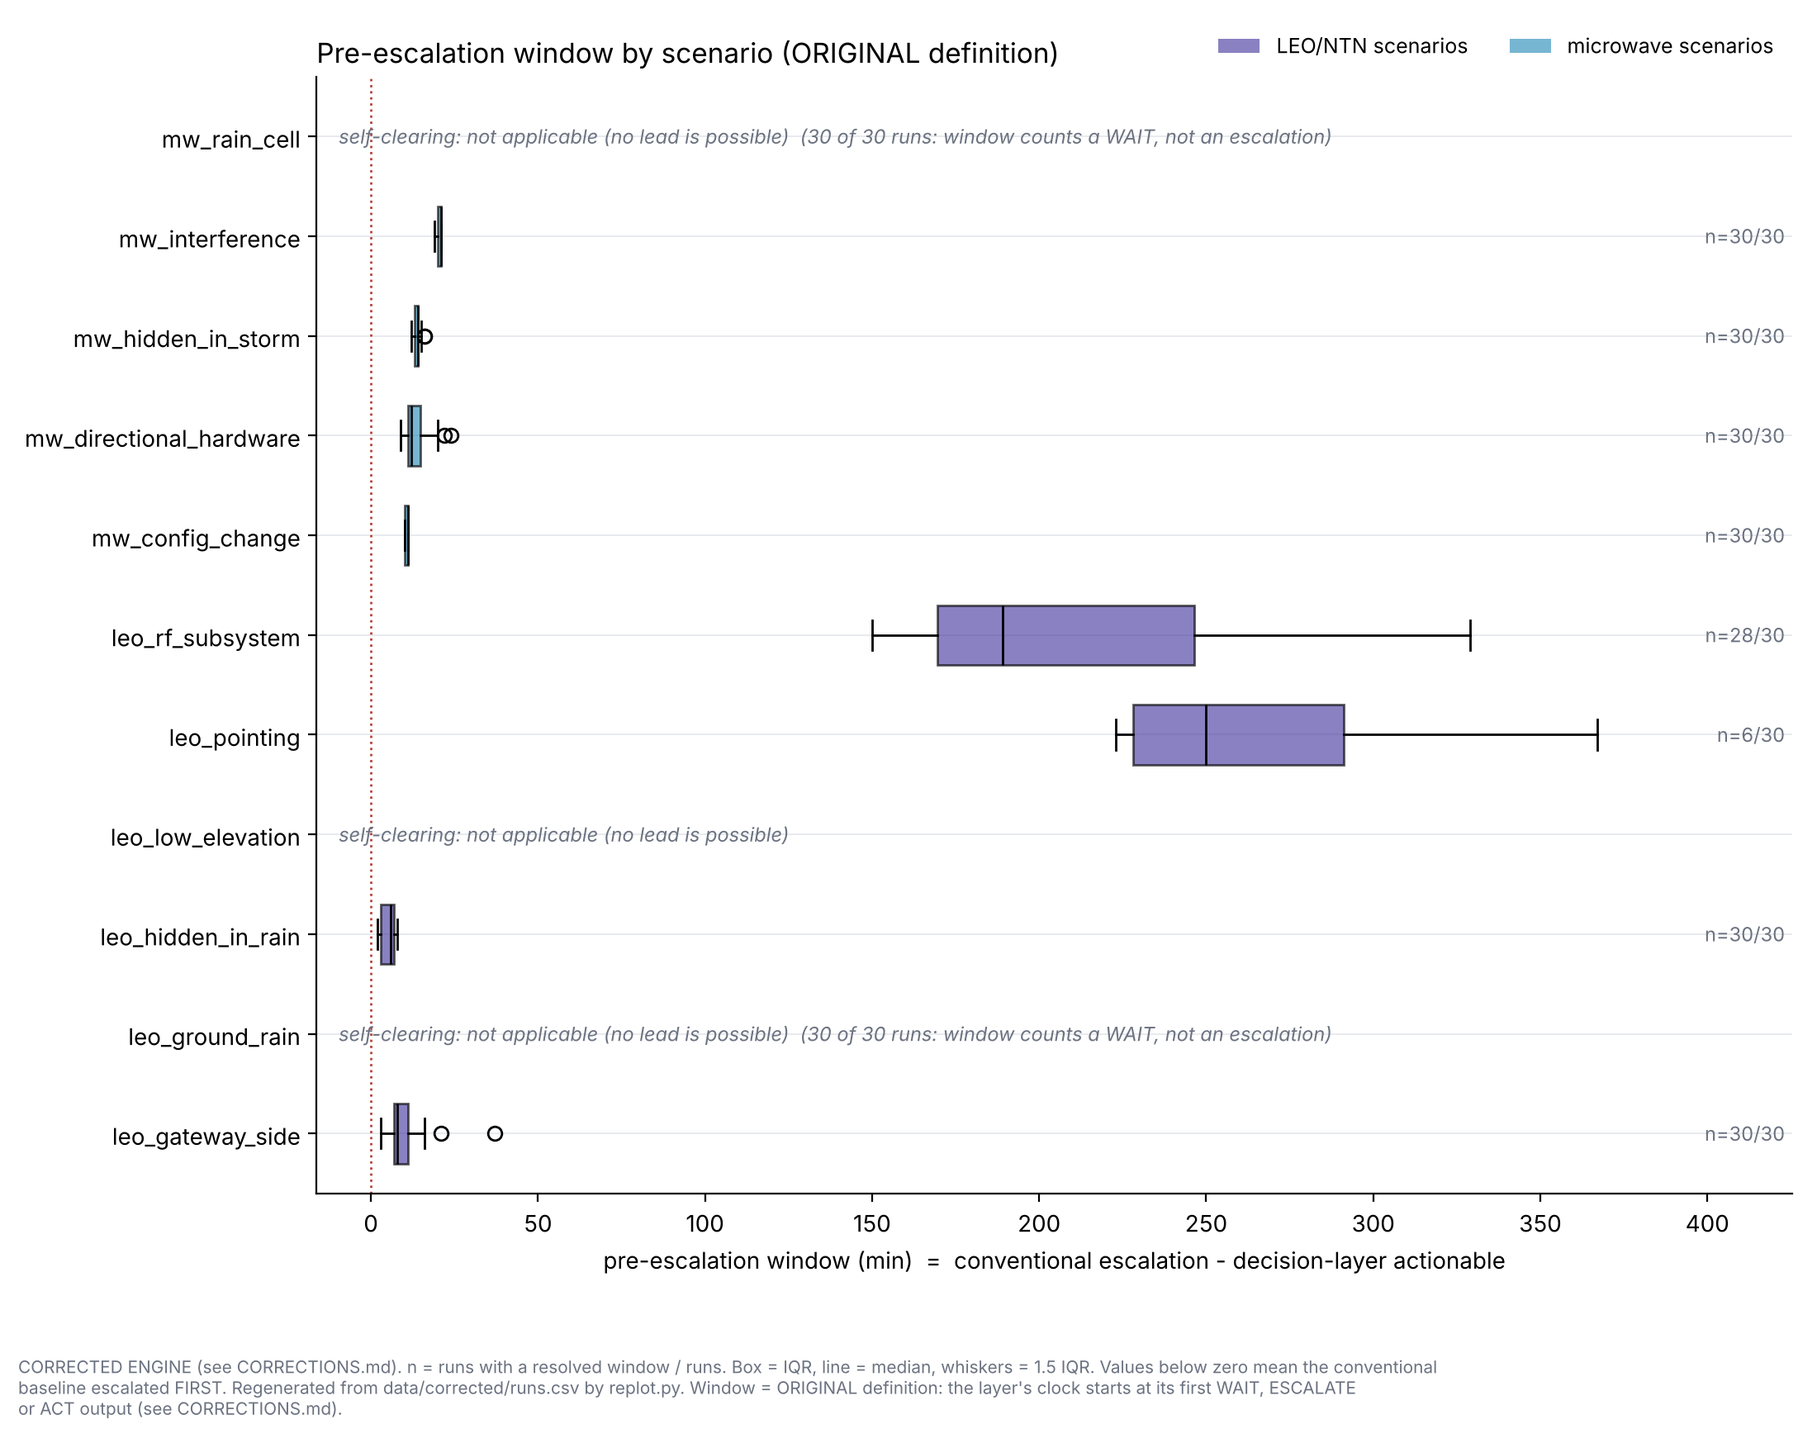
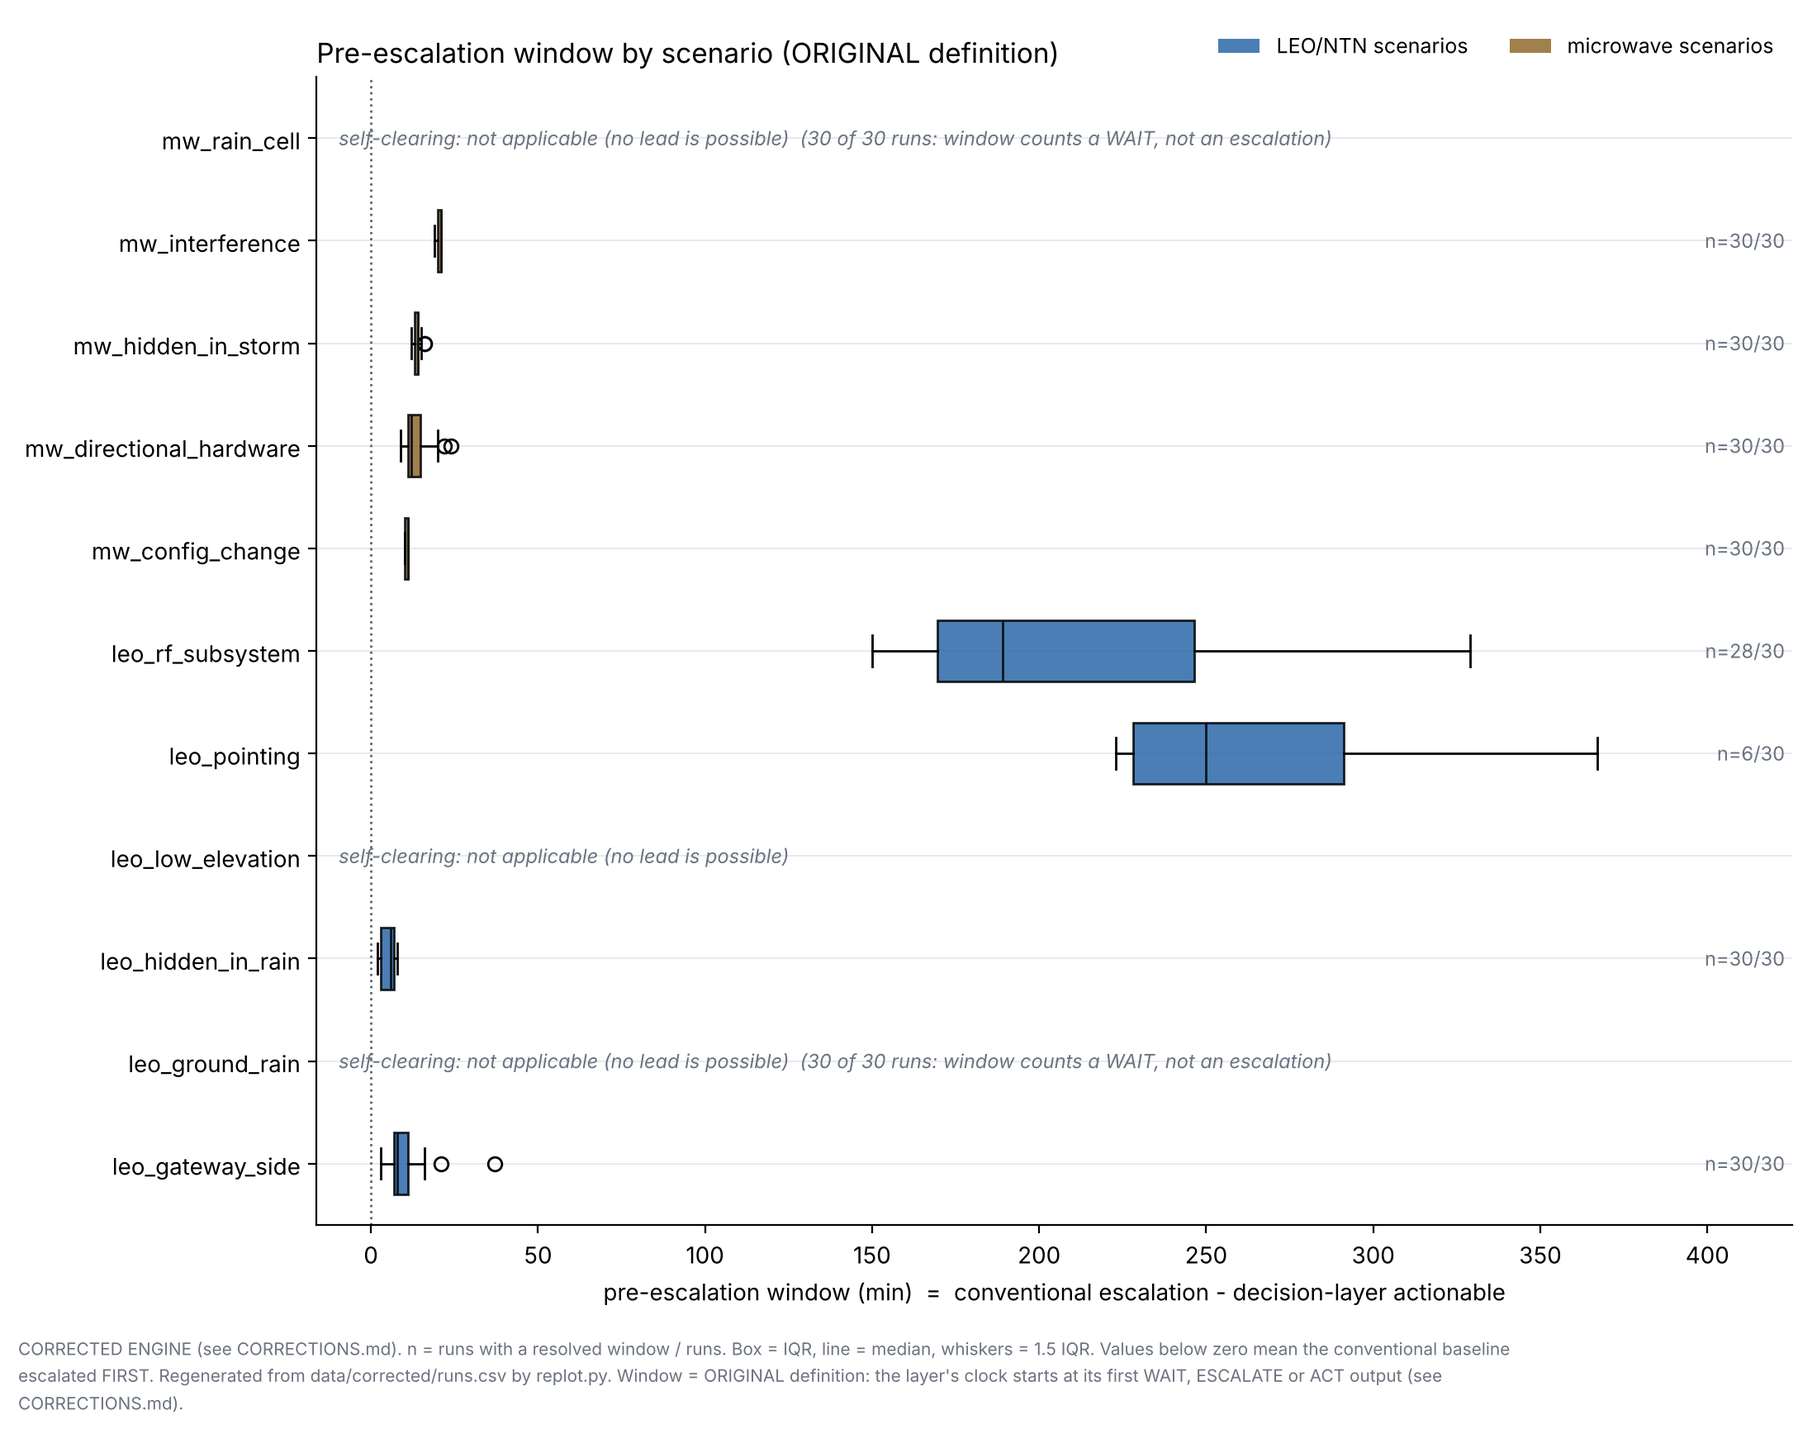
Light corrected figures follow the blue/gold role system; shared footer layout, legend and timeline fixes
Claude-Session: https://claude.ai/code/session_01Rx9huHk5MnagFnVThWGEcc

diff --git a/replot.py b/replot.py
@@ -47,6 +47,7 @@ PALETTE = {
     "timeline_height": 3.6,
     "scenario_lines": "default",      # "domain": one hue per panel, scenarios told apart by line style and marker
     # -- timeline events
+    "event_onset": "#DDE1E7",          # fault onset (the pale grid tone in the original light theme)
     "event_detect": "#2E8FBB",
     "event_actionable_leo": "#4A3DA0",
     "event_actionable_mw": "#4A3DA0",
@@ -57,6 +58,19 @@ PALETTE = {
     # -- residual-diagnosis trace
     "trace": "#2E8FBB",
     "marginal": "#B2453D",
+}
+
+# Light-theme roles for the corrected-engine figures: the same blue / gold semantics as the dark theme, in tones with
+# enough contrast on white (blue 5.8:1, AID Edge deep gold #8F6A2D 4.9:1, grey 5.8:1). Figures from the published data keep PALETTE above.
+LIGHT_BRAND = {
+    "series_leo": "#2A68A8", "series_mw": "#8F6A2D",
+    "arm_conventional": "#5B6772", "arm_decision_leo": "#2A68A8", "arm_decision_mw": "#8F6A2D",
+    "pooled": "#5B6772", "special": "#0B1620", "special_hatch": "///",
+    "reference": "#5B6772", "median": "#0B1620", "box_alpha": 0.85, "legend_fs": 9, "legend_fs_small": 8,
+    "scenario_lines": "domain", "timeline_levels": [0.45, -0.45, 1.25, -1.25], "timeline_height": 5.0,
+    "event_onset": "#5B6772", "event_detect": "#0B1620", "event_actionable_leo": "#2A68A8", "event_actionable_mw": "#8F6A2D",
+    "event_escalate_leo": "#2A68A8", "event_escalate_mw": "#8F6A2D", "event_ticket": "#5B6772", "event_impact": "#0B1620",
+    "trace": "#2A68A8", "marginal": "#0B1620",
 }
 
 
@@ -87,20 +101,54 @@ def _boxplot(ax, data, tick_labels, horizontal=False, **kwargs):
 # (detected by the presence of the like-for-like window column).
 DATA_LABEL = "data"
 CORRECTED = False
+THEME = "light"          # replot_dark.py sets "dark" before calling main()
 ORIGINAL_WINDOW_NOTE = (" Window = ORIGINAL definition: the layer's clock starts at its first WAIT, ESCALATE or ACT output "
                         "(see CORRECTIONS.md).")
 
 
-def _footer(fig, text: str, original_window: bool = False, wrap: bool = False) -> int:
+def _footer(fig, text: str, original_window: bool = False) -> None:
     if DATA_LABEL != "data":
         text = text.replace("data/", DATA_LABEL + "/")
     if CORRECTED:
         text = "CORRECTED ENGINE (see CORRECTIONS.md). " + text + (ORIGINAL_WINDOW_NOTE if original_window else "")
-    if CORRECTED and wrap:                            # the longer corrected-set footer must not run off the canvas
-        import textwrap
-        text = textwrap.fill(text, width=int(fig.get_figwidth() * 15))
     fig.text(0.01, 0.01, text, fontsize=7.5, color=PALETTE["footer"], ha="left")
-    return text.count("\n") + 1
+
+
+def _wrap_footer(fig) -> float:
+    """Wrap the footer to the canvas width; return its height as a figure fraction (0 if there is none)."""
+    import math
+    import textwrap
+    foot = next((t for t in fig.texts if tuple(round(v, 3) for v in t.get_position()) == (0.01, 0.01)), None)
+    if foot is None:
+        return 0.0
+    renderer = fig.canvas.get_renderer()
+    foot.set_va("bottom")
+    foot.set_position((0.01, 0.008))
+    text = " ".join(foot.get_text().split())
+    foot.set_text(text)
+    avail = fig.get_figwidth() * fig.dpi * 0.965
+    width = foot.get_window_extent(renderer).width
+    if width > avail:
+        foot.set_text(textwrap.fill(text, width=int(len(text) / math.ceil(width / avail))))
+        foot.set_linespacing(1.3)
+    return foot.get_window_extent(renderer).height / (fig.get_figheight() * fig.dpi)
+
+
+def _finish(fig, out: Path, rect=None) -> Path:
+    """Lay out, save and close. In the light corrected set the footer is wrapped to the canvas and the plot area keeps
+    clear of it; everywhere else (published-data figures, the dark theme, which does its own footer layout) the layout
+    is exactly the original tight_layout."""
+    if CORRECTED and THEME == "light":
+        top = rect[3] if rect else 1.0
+        bottom = max(_wrap_footer(fig) + 0.012, rect[1] if rect else 0.0)
+        fig.tight_layout(rect=[0, bottom, 1, top])
+    elif rect is not None:
+        fig.tight_layout(rect=rect)
+    else:
+        fig.tight_layout()
+    fig.savefig(out, dpi=200)
+    plt.close(fig)
+    return out
 
 
 def _self_clearing_scenarios(df: pd.DataFrame) -> set:
@@ -171,17 +219,11 @@ def fig_pre_escalation_window(df: pd.DataFrame, out: Path, col: str = "lead_gain
     else:
         sz = df[df[col].notna()].groupby("scenario").size()
         ax.set_title(f"{head} (n={sz.min()}-{sz.max()} seeds each)", fontsize=12, loc="left")
-    n_lines = _footer(fig, ("n = runs with a resolved window / runs. " if CORRECTED else "")
-                           + "Box = IQR, line = median, whiskers = 1.5 IQR. Values below zero mean the "
-                           "conventional baseline escalated FIRST. Regenerated from data/runs.csv by replot.py.",
-                      original_window=CORRECTED and not like_for_like, wrap=True)
-    if CORRECTED:
-        fig.tight_layout(rect=[0, 0.025 + 0.022 * n_lines, 1, 1])
-    else:
-        fig.tight_layout()
-    fig.savefig(out, dpi=200)
-    plt.close(fig)
-    return out
+    _footer(fig, ("n = runs with a resolved window / runs. " if CORRECTED else "")
+                 + "Box = IQR, line = median, whiskers = 1.5 IQR. Values below zero mean the "
+                 "conventional baseline escalated FIRST. Regenerated from data/runs.csv by replot.py.",
+            original_window=CORRECTED and not like_for_like)
+    return _finish(fig, out)
 
 
 def fig_cross_domain(df: pd.DataFrame, out: Path) -> Optional[Path]:
@@ -216,10 +258,7 @@ def fig_cross_domain(df: pd.DataFrame, out: Path) -> Optional[Path]:
     fig.suptitle("The physics change. The decision problem persists.", fontsize=13, x=0.01, ha="left")
     _footer(fig, "Cross-domain comparison of the DECISION problem, not of the technologies. "
                  "Regenerated from data/runs.csv by replot.py.")
-    fig.tight_layout(rect=[0, 0.03, 1, 0.94])
-    fig.savefig(out, dpi=200)
-    plt.close(fig)
-    return out
+    return _finish(fig, out, rect=[0, 0.03, 1, 0.94])
 
 
 def fig_escalation_quality(df: pd.DataFrame, out: Path) -> Optional[Path]:
@@ -254,7 +293,11 @@ def fig_escalation_quality(df: pd.DataFrame, out: Path) -> Optional[Path]:
                     Patch(facecolor=PALETTE["arm_decision_mw"], label="decision layer, microwave scenarios")]
     else:
         handles += [Patch(facecolor=PALETTE["arm_decision_leo"], label="Velorona decision layer")]
-    axes[0].legend(handles=handles, frameon=False, fontsize=9)
+    if CORRECTED:                         # above the plot area, clear of the bars (both themes)
+        axes[0].legend(handles=handles, loc="lower right", bbox_to_anchor=(1.0, 1.02), ncol=len(handles),
+                       frameon=False, fontsize=PALETTE["legend_fs"])
+    else:
+        axes[0].legend(handles=handles, frameon=False, fontsize=9)
     axes[1].set_xticks(x)
     axes[1].set_xticklabels(scen, rotation=30, ha="right", fontsize=8)
     fig.suptitle("Escalation quality: is the escalation about a real, persistent fault?",
@@ -262,10 +305,7 @@ def fig_escalation_quality(df: pd.DataFrame, out: Path) -> Optional[Path]:
     _footer(fig, ("Medians across seeds. n/a = metric undefined (no persistent fault, or no escalation by the arm); not zero. "
                   if CORRECTED else "Medians across seeds. NaN (no escalation by either arm) plotted as zero. ")
                 + "Regenerated from data/runs.csv by replot.py.")
-    fig.tight_layout(rect=[0, 0.02, 1, 0.95])
-    fig.savefig(out, dpi=200)
-    plt.close(fig)
-    return out
+    return _finish(fig, out, rect=[0, 0.02, 1, 0.95])
 
 
 def fig_economic_exposure(df: pd.DataFrame, out: Path) -> Optional[Path]:
@@ -288,10 +328,7 @@ def fig_economic_exposure(df: pd.DataFrame, out: Path) -> Optional[Path]:
     ax.set_title("Modelled operational exposure - ILLUSTRATIVE", fontsize=12, loc="left")
     _footer(fig, "ILLUSTRATIVE ONLY, NOT from operator financial data. Medians across seeds. "
                  "Regenerated from data/runs.csv by replot.py.")
-    fig.tight_layout()
-    fig.savefig(out, dpi=200)
-    plt.close(fig)
-    return out
+    return _finish(fig, out)
 
 
 def fig_coverage_derivation(coverage: pd.DataFrame, out: Path) -> Optional[Path]:
@@ -318,16 +355,13 @@ def fig_coverage_derivation(coverage: pd.DataFrame, out: Path) -> Optional[Path]
     _footer(fig, "Coverage != capacity != availability. Every value is DERIVED from stated "
                  "assumptions; no fixed satellite-to-microwave ratio is asserted. "
                  "Regenerated from data/coverage_comparison.csv by replot.py.")
-    fig.tight_layout()
-    fig.savefig(out, dpi=200)
-    plt.close(fig)
-    return out
+    return _finish(fig, out)
 
 
 def fig_timeline(row: pd.Series, out: Path) -> Optional[Path]:
     dom = "leo" if str(row.get("domain")).startswith("leo") else "mw"      # decision-layer events take the run's domain hue
     marks = [
-        ("fault onset", row.get("t_fault_onset"), PALETTE["grid"]),
+        ("fault onset", row.get("t_fault_onset"), PALETTE["event_onset"]),
         ("first detectable", row.get("t_first_detectable"), PALETTE["event_detect"]),
         ("decision layer actionable", row.get("t_decision_layer_actionable"), PALETTE["event_actionable_" + dom]),
         ("decision layer ESCALATE/ACT", row.get("t_decision_layer_escalation"), PALETTE["event_escalate_" + dom]),
@@ -350,7 +384,20 @@ def fig_timeline(row: pd.Series, out: Path) -> Optional[Path]:
         ax.scatter([t], [0], s=110, color=colour, zorder=3)
         ax.vlines(t, 0, y * 0.8, color=colour, linestyle="--", linewidth=1)
         ax.text(t, y, f"{label}\nt={t:.0f} min", ha="center",
-                va="bottom" if y > 0 else "top", fontsize=9, color=colour)
+                va="bottom" if y > 0 else "top", fontsize=9, color=colour,
+                bbox=dict(facecolor=ax.get_facecolor(), edgecolor="none", pad=1.5) if len(levels) > 2 else None)
+
+    if len(levels) > 2:                       # labels sharing a row: the left one right-aligned, the right one left-aligned
+        renderer = fig.canvas.get_renderer()
+        rows = {}
+        for txt in ax.texts:
+            rows.setdefault(txt.get_position()[1], []).append(txt)
+        for row_texts in rows.values():
+            row_texts.sort(key=lambda t_: t_.get_position()[0])
+            for left, right in zip(row_texts, row_texts[1:]):
+                if left.get_window_extent(renderer).overlaps(right.get_window_extent(renderer)):
+                    left.set_ha("right")
+                    right.set_ha("left")
 
     pre = row.get("pre_escalation_window_min")
     if pre == pre and row.get("t_decision_layer_actionable") == row.get("t_decision_layer_actionable"):
@@ -372,10 +419,7 @@ def fig_timeline(row: pd.Series, out: Path) -> Optional[Path]:
     ax.set_title(title, fontsize=12, loc="left")
     _footer(fig, "Single run from data/runs.csv. Simulated network; see docs for stated "
                  "assumptions and limitations. Regenerated by replot.py.")
-    fig.tight_layout()
-    fig.savefig(out, dpi=200)
-    plt.close(fig)
-    return out
+    return _finish(fig, out)
 
 
 SEVERITY_MULTIPLIERS = [0.4, 0.6, 0.8, 1.0, 1.3, 1.7, 2.2]
@@ -418,10 +462,7 @@ def fig_severity_sensitivity(df: pd.DataFrame, out: Path) -> Optional[Path]:
     _footer(fig, "15 seeds per point. leo_low_elevation excluded (declared severity is 0 -- pure "
                  "orbital geometry, no severity to scale). Regenerated from "
                  "data/sensitivity_severity.csv by replot.py.", original_window=True)
-    fig.tight_layout(rect=[0, 0.03, 1, 0.93])
-    fig.savefig(out, dpi=200)
-    plt.close(fig)
-    return out
+    return _finish(fig, out, rect=[0, 0.03, 1, 0.93])
 
 
 def fig_comparator_sensitivity(df: pd.DataFrame, out: Path) -> Optional[Path]:
@@ -459,10 +500,7 @@ def fig_comparator_sensitivity(df: pd.DataFrame, out: Path) -> Optional[Path]:
                  "paired error rates for space -- see fig10 and README for the FPR/unnecessary-"
                  "dispatch pairing this study requires. Regenerated from "
                  "data/sensitivity_comparator.csv by replot.py.", original_window=True)
-    fig.tight_layout(rect=[0, 0.03, 1, 0.93])
-    fig.savefig(out, dpi=200)
-    plt.close(fig)
-    return out
+    return _finish(fig, out, rect=[0, 0.03, 1, 0.93])
 
 
 def fig_residual_diagnosis(trace_df: pd.DataFrame, out: Path) -> Optional[Path]:
@@ -497,10 +535,7 @@ def fig_residual_diagnosis(trace_df: pd.DataFrame, out: Path) -> Optional[Path]:
     _footer(fig, "Vertical line = the step at which the layer first escalated or recommended action. "
                  "See docs/LIMITATIONS.md for the diagnosis of each. Regenerated from "
                  "data/sensitivity_residual_trace.csv by replot.py.")
-    fig.tight_layout(rect=[0, 0.02, 1, 0.94])
-    fig.savefig(out, dpi=200)
-    plt.close(fig)
-    return out
+    return _finish(fig, out, rect=[0, 0.02, 1, 0.94])
 
 
 def _unique_comparator_configs(df: pd.DataFrame):
@@ -566,10 +601,7 @@ def fig_latency_precision_tradeoff(df: pd.DataFrame, out: Path) -> Optional[Path
                  "escalation FPR, its points cluster near a single x-value while spanning the SAME "
                  "window values as the conventional curve. It does not lie on the conventional "
                  "trade-off curve. Regenerated from data/sensitivity_comparator.csv by replot.py.", original_window=True)
-    fig.tight_layout(rect=[0, 0.05, 1, 0.92])
-    fig.savefig(out, dpi=200)
-    plt.close(fig)
-    return out
+    return _finish(fig, out, rect=[0, 0.05, 1, 0.92])
 
 
 EXEMPLARS = [
@@ -596,6 +628,8 @@ def main(argv: Optional[List[str]] = None) -> int:
     DATA_LABEL = str(data_dir).rstrip("/")
     df = pd.read_csv(data_dir / "runs.csv")
     CORRECTED = "escalation_window_min" in df.columns
+    if CORRECTED and THEME == "light":
+        PALETTE.update(LIGHT_BRAND)
     coverage = pd.read_csv(data_dir / "coverage_comparison.csv")
 
     made: List[Path] = []

diff --git a/replot_dark.py b/replot_dark.py
@@ -61,7 +61,7 @@ DARK_PALETTE = {
     "pooled": NEUTRAL, "special": "#F2F5F7", "special_hatch": "///",
     "reference": FAINT, "grid": "#1B252C", "median": WHITE, "footer": "#A3B0BB",
     "box_alpha": 0.85, "legend_fs": 10, "legend_fs_small": 9, "scenario_lines": "domain",
-    "event_detect": WHITE, "event_actionable_leo": BLUE, "event_actionable_mw": GOLD,
+    "event_onset": FAINT, "event_detect": WHITE, "event_actionable_leo": BLUE, "event_actionable_mw": GOLD,
     "event_escalate_leo": BLUE, "event_escalate_mw": GOLD, "event_ticket": FAINT, "event_impact": WHITE,
     "trace": BLUE, "marginal": WHITE,
     "timeline_levels": [0.45, -0.45, 1.25, -1.25], "timeline_height": 5.0,
@@ -96,6 +96,7 @@ def _fonts(geist_dir: str | None) -> str | None:
 
 def _apply_theme(family: str | None) -> None:
     replot.PALETTE.update(DARK_PALETTE)
+    replot.THEME = "dark"
     rc = {
         "figure.facecolor": PLATE, "savefig.facecolor": PLATE, "axes.facecolor": PANEL,
         "text.color": TEXT, "axes.labelcolor": MUTED, "axes.edgecolor": BORDER,

diff --git a/CHANGELOG.md b/CHANGELOG.md
@@ -7,6 +7,12 @@
 - Severity chart: one hue per panel, scenarios told apart by line style and marker (no shade families). Escalation-quality chart: the legend sits above the plot and names all three bar colours. Timeline figures: labels staggered on four rows so clustered events no longer overprint. Legends and footers larger.
 - Phones: figures keep a legible 1100 px width and pan inside their own box (the page never scrolls sideways) instead of being squeezed to ~350 px; tapping opens the full-resolution file.
 
+## Light corrected figures follow the same system (presentation only; content version stays 1.1)
+
+- `replot.LIGHT_BRAND`: the corrected-set light figures (`figures/corrected/`) use the same semantic roles as the dark theme in white-background tones (blue `#2A68A8`, AID Edge deep gold `#8F6A2D`, grey `#5B6772`, near-black + hatch for the degenerate comparator). Selected by theme (`replot.THEME`), so figures from the published `data/` are unchanged and remain pixel-identical to the published PNGs.
+- Footer text in the corrected set is wrapped to the canvas and the plot area keeps clear of it (`_finish`); the escalation-quality legend sits above the plot in both themes; timeline labels are staggered, masked against the stems and de-overlapped in both themes, and the pale "fault onset" mark is visible on white.
+- Figure 09 (cross-domain) needed no change.
+
 ## Blue-and-gold figure palette (presentation only; content version stays 1.1)
 
 - One colour rule for the article figures: brand blue `#68A9E0` = LEO/NTN series (and the decision-layer arm where arms are compared); gold `#C6A15B` = microwave series and the highlighted "degenerate" comparator; neutrals = conventional arm, pooled comparator configurations and reference lines. Colour separates series; it does not encode better or worse. Box fills are more opaque so gold reads as gold on the dark plate.

diff --git a/figures/README.md b/figures/README.md
@@ -26,4 +26,4 @@ reproduces the published figures in content but not pixel-for-pixel (matplotlib/
 | `arm_conventional`, `pooled`, `reference`, grid, footers | neutral greys | conventional monitoring; comparator configurations pooled across domains; zero lines; chart furniture |
 | `special` (+ hatch), `median`, `event_detect`, `event_impact` | near-white | the highlighted degenerate comparator; median lines; first-detectable and service-impact timeline marks |
 
-Colour separates series; it never encodes better or worse. The light theme keeps its original values for the same roles (figures regenerated from `data/` are pixel-identical to the published ones); the light corrected-set figures still use that palette and are not part of the blue-and-gold system.
+Colour separates series; it never encodes better or worse. The light theme has two palettes. Figures regenerated from the published `data/` keep the original values (pixel-identical to the published PNGs). The corrected-set light figures (`figures/corrected/`) use the same roles in tones that hold up on white (`replot.LIGHT_BRAND`): blue `#2A68A8` (5.8:1 contrast on white), AID Edge deep gold `#8F6A2D` (4.9:1), grey `#5B6772`, near-black `#0B1620` + hatch for the degenerate comparator.
